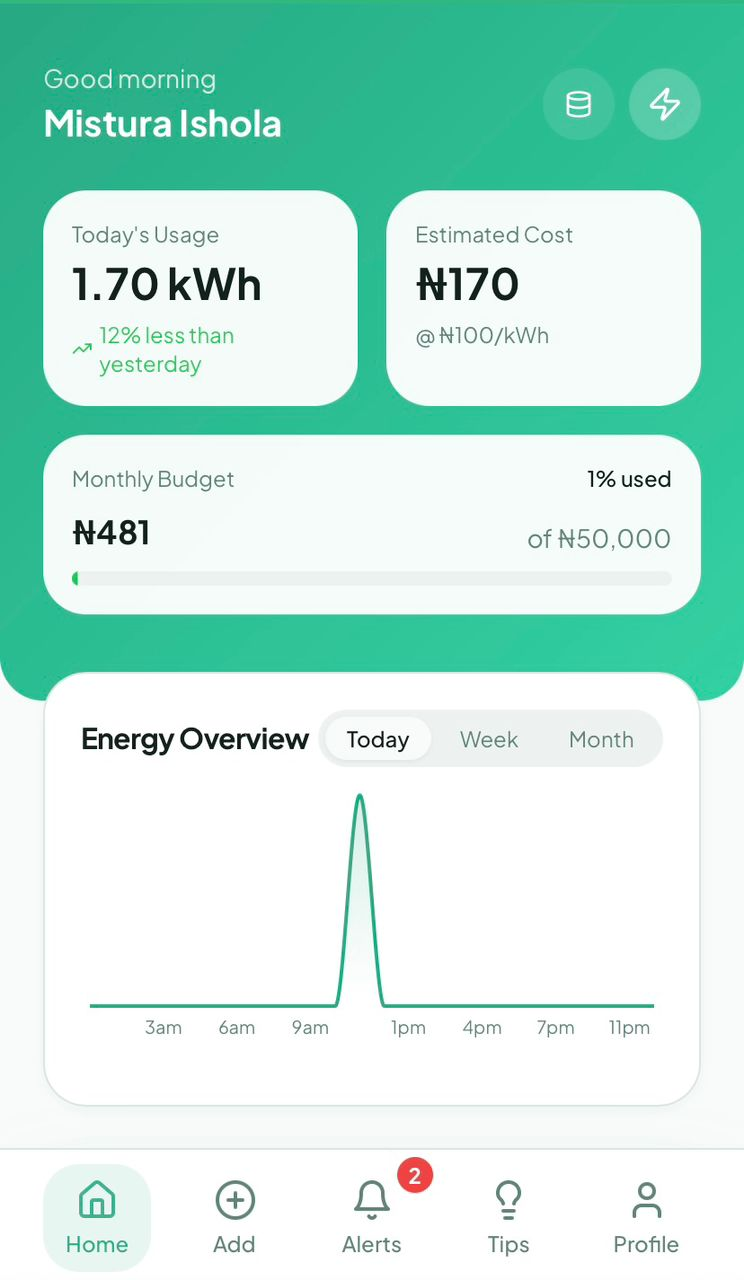
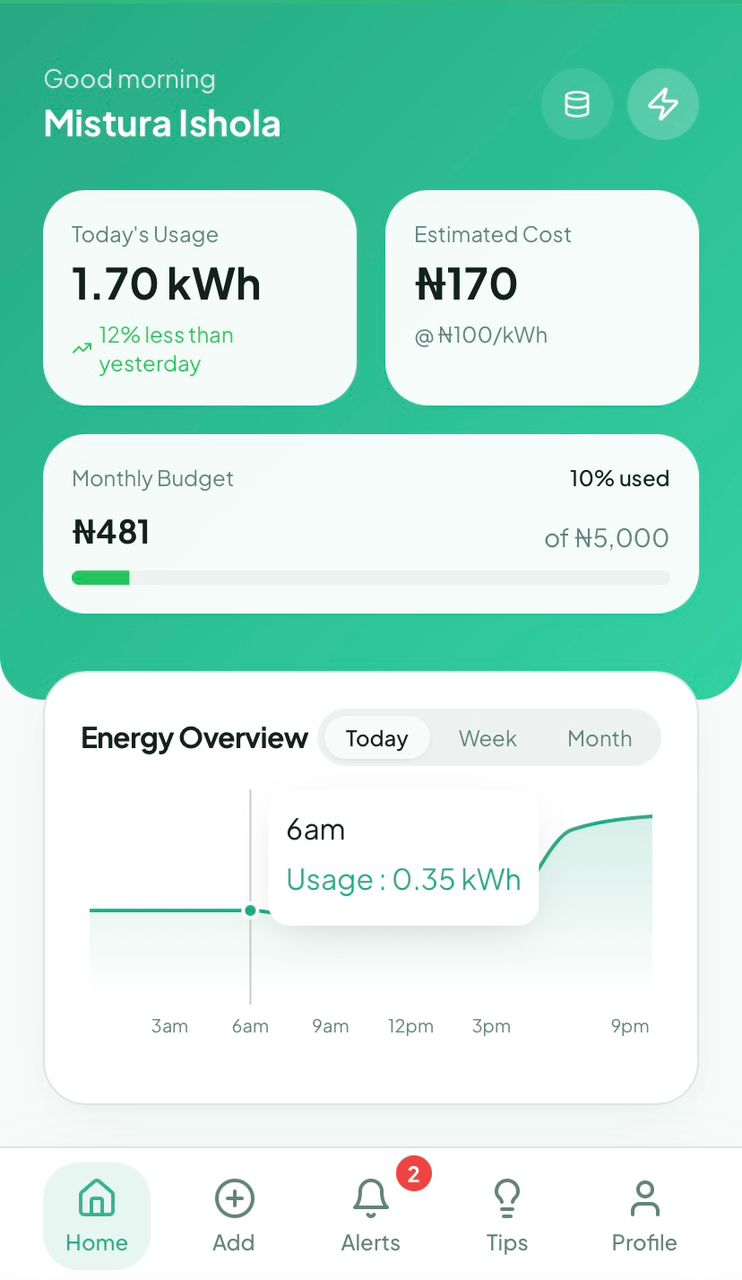
Update portfolio with Bright Home Energy Saver

diff --git a/src/components/Projects.jsx b/src/components/Projects.jsx
@@ -2,6 +2,7 @@ import React from "react";
 import "./Projects.css";
 
 import citizenshipImg from "../assets/citizenship.jpg";
+import saverImg from "../assets/saver.jpeg";
 import weatherImg from "../assets/weather.jpg";
 import walletImg from "../assets/dashboard.jpg";
 import eshopperImg from "../assets/home.png";
@@ -28,15 +29,16 @@ const Projects = () => {
           </div>
         </div>
 
-        {/* Weather App */}
+        {/* Home Saver App */}
         <div className="project-card">
-          <img src={weatherImg} alt="Weather App" />
-          <h3>Weather App</h3>
-          <p>A cross-platform mobile weather application built with React Native and Expo, providing real-time forecasts using OpenWeather API.</p>
+          <img src={saverImg} alt="Home Saver App" />
+          <h3>Home Saver App</h3>
+          <p>A smart home energy monitoring app that visualizes usage, sets limits and sends alerts to help users save energy and reduce costs in real time.</p>
           <div className="project-links">
-            <a href="https://github.com/MisturaDev/react-native-weather-app" target="_blank" rel="noopener noreferrer">
+            <a href="https://github.com/MisturaDev/bright-home-saver.git" target="_blank" rel="noopener noreferrer">
               <img src={githubIcon} alt="GitHub Link" className="icon" />
             </a>
+            <a href="https://bright-home-saver.vercel.app/" target="_blank" rel="noopener noreferrer">Live Demo</a>
           </div>
         </div>
 
